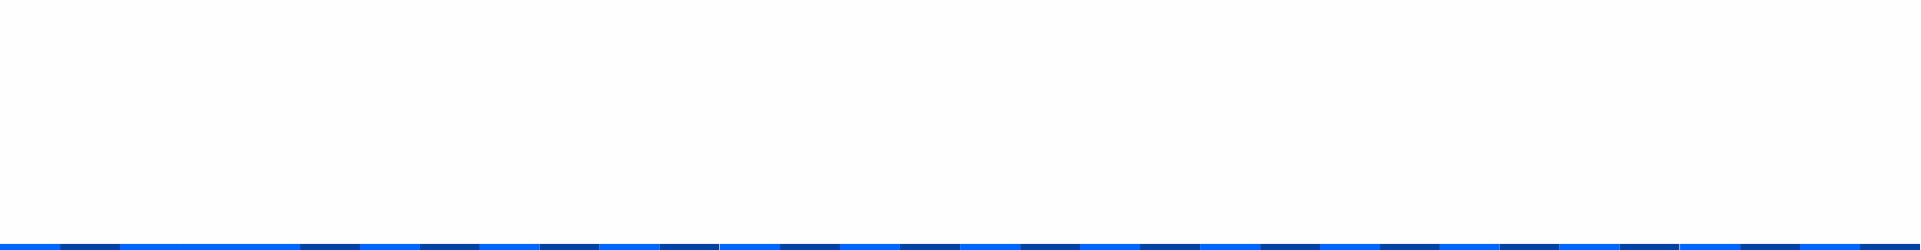
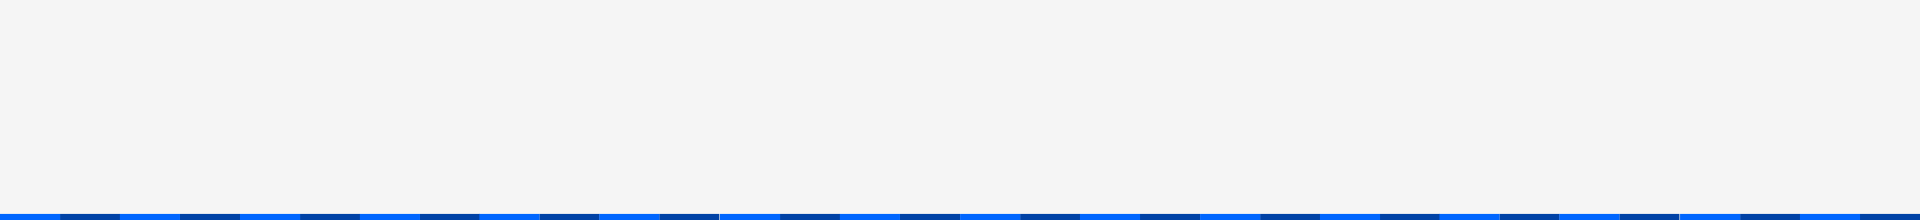
pequenas modificações

Changed region(s): [[0.0, 0.9545, 1.0, 1.0]]

diff --git a/index.html b/index.html
@@ -122,7 +122,7 @@ A Diretoria é composta por servidores voluntários e as decisões que traçam o
 					
 						<div class="conteudo-direita">	
 							
-							<iframe src="//www.facebook.com/plugins/likebox.php?href=https%3A%2F%2Fwww.facebook.com%2Fpages%2FAssesi-PE%2F195712677256237&amp;width=200px&amp;height=258&amp;colorscheme=light&amp;show_faces=true&amp;header=false&amp;stream=false&amp;show_border=true&amp;appId=1454260484797553" scrolling="no" frameborder="0" style="border:none; overflow:hidden; width:200px; height:258px;" allowTransparency="true"></iframe>
+							<iframe src="//www.facebook.com/plugins/likebox.php?href=https%3A%2F%2Fwww.facebook.com%2Fpages%2FAssesi-PE%2F195712677256237&amp;width=200px&amp;height=258&amp;colorscheme=light&amp;show_faces=true&amp;header=false&amp;stream=false&amp;show_border=true&amp;appId=1454260484797553" scrolling="no" frameborder="0" style="border:none; overflow:hidden; width:228px; height:258px;" allowTransparency="true"></iframe>
 							
 							<h4> Titulo Fulano Ticrano</h4>
 							<p>
@@ -139,13 +139,13 @@ A Diretoria é composta por servidores voluntários e as decisões que traçam o
 			<div class="container">
 				<div class="footer_content">
 					<div class="row">
-						<div class="col-xs-6 col-sm-2">
+						<div class="col-xs-6 col-sm-1">
 
 						</div>
 
 						<div class="col-xs-6 col-sm-3">
 							<p class="footer">Localizacao</p>
-							<iframe src="https://www.google.com/maps/embed?pb=!1m14!1m8!1m3!1d3950.172510308936!2d-34.958864!3d-					8.0838826!3m2!1i1024!2i768!4f13.1!3m3!1m2!1s0x7ab1c19030be5bd%3A0xff7e7c1c86434c62!2sAvenida+Tempo+Feliz+-+Sancho!5e0!3m2!1spt-BR!2sbr!4v1395627414796" width="100%" height="200" frameborder="0" style="border:0"></iframe>
+							<iframe src="https://www.google.com/maps/embed?pb=!1m14!1m8!1m3!1d3950.172510308936!2d-34.958864!3d-					8.0838826!3m2!1i1024!2i768!4f13.1!3m3!1m2!1s0x7ab1c19030be5bd%3A0xff7e7c1c86434c62!2sAvenida+Tempo+Feliz+-+Sancho!5e0!3m2!1spt-BR!2sbr!4v1395627414796" width="100%" height="150" frameborder="0" style="border:0"></iframe>
 						</div>
 
 						<div class="col-xs-6 col-sm-1 conteudo_footer">

diff --git a/css/css.css b/css/css.css
@@ -1,5 +1,5 @@
 body{
-background-color: #FFF;
+background-color: #f5f5f5;
 background-image: url('../imagens/fundo_site.png') no-repeat;
 }
 
@@ -9,7 +9,7 @@ background-image: url('../imagens/fundo_site.png') no-repeat;
 
 
 #header{
-height: 250px;
+height: 220px;
 background-image:url('../imagens/fundoCabecalho.png');
 color: white;
 }
@@ -83,8 +83,8 @@ left: 0;
 footer{
 
 background-color: #0066FF;
-height: 300px;
-margin-top: 100px;
+height: 250px;
+margin-top: 70px;
 
 }
 
@@ -115,7 +115,8 @@ margin-top: -5px;
 
 #marca{
     
-margin-left: 40px;
+margin-left: 5%;
+
     
 }
 
@@ -174,12 +175,13 @@ padding-left: 15px;
 }
 
 .conteudo-central {
-margin-left: 30px;
+margin-left: 10px;
 margin-bottom: 50px;
+
 }
 
 .conteudo-direita {
-padding: 10px 40px 10px 25px;
+padding: 10px 20px 10px 15px;
 margin-bottom: 20px;
 margin-top: 15px;
 /*box-shadow: 0 4px 30px 6px rgba(0,0,0,0.15);*/
@@ -213,8 +215,7 @@ color:white;
 #carrossel{
 
 margin-bottom: 60px;
-margin-left: -25px;
-margin-right: -25px;
+
 
     
 }
